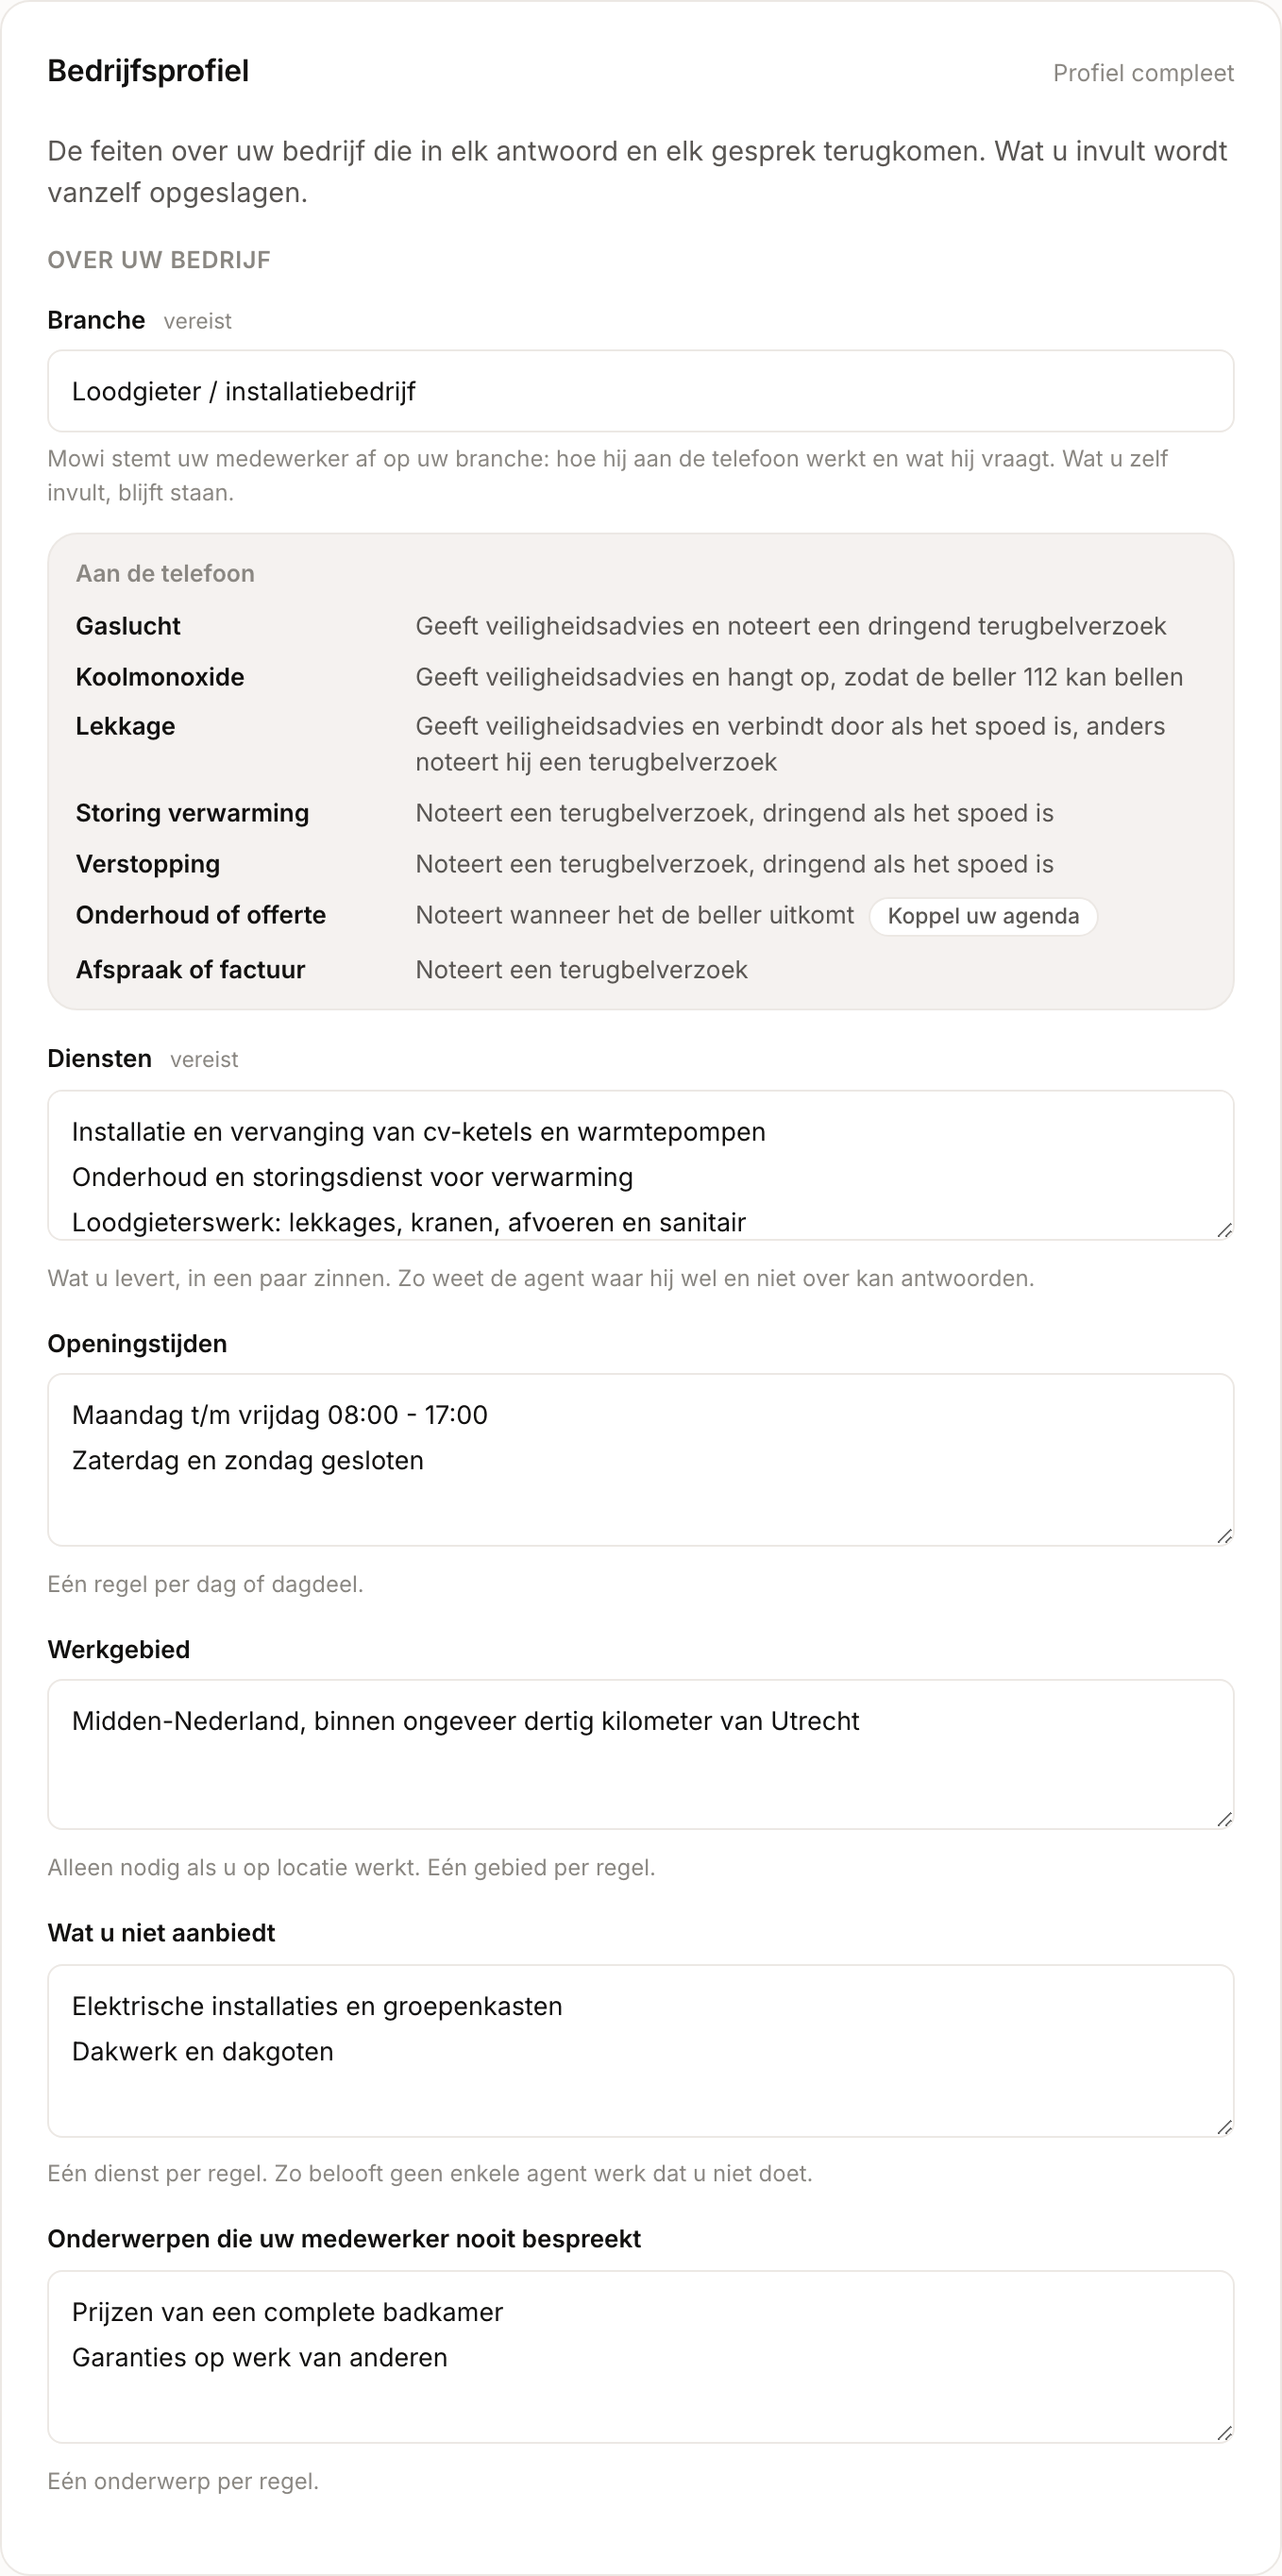
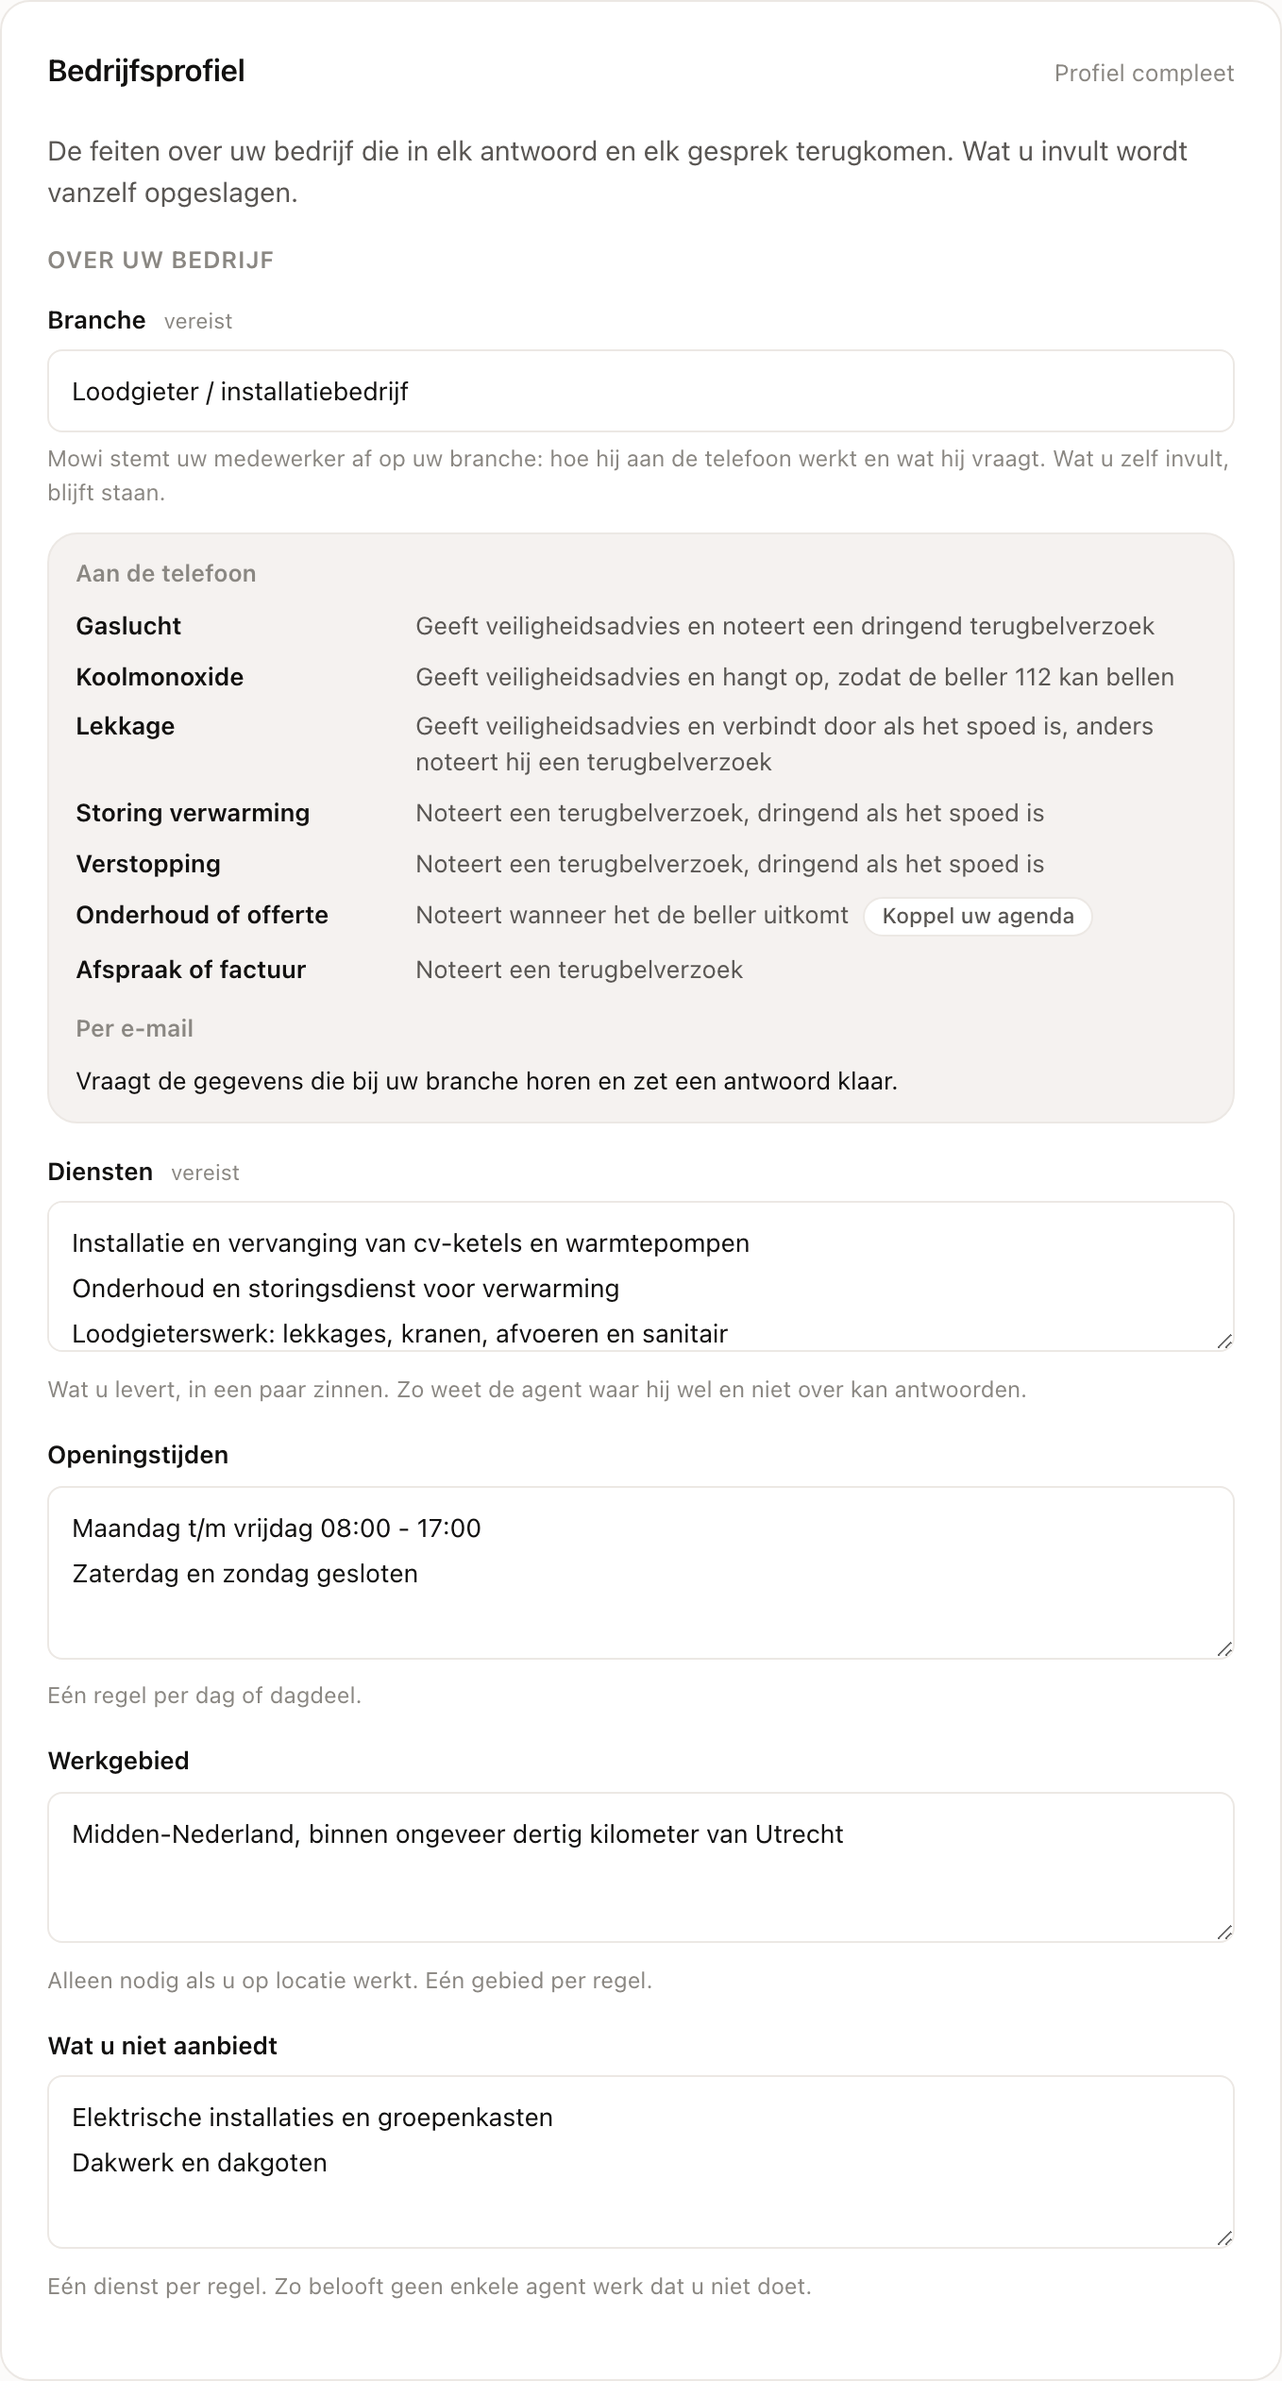
Docs: re-shot Bedrijfsprofiel card without Nooit bespreken
The field moved to the Werkwijze step (dashboard dbc5314, 9180523). Same
fictional business and crop as the 2026-10-21 shot (679 CSS px, 2x,
lossless WebP), rendered from dashboard 9180523; the route preview now
also shows its Per e-mail line. ?v=20261023.

diff --git a/docs/kennis-bedrijfsprofiel.html b/docs/kennis-bedrijfsprofiel.html
@@ -99,7 +99,7 @@
 </p>
 
 <div class="docs-media docs-media--shot">
-<a href="../assets/docs/kennis-bedrijfsprofiel-2-profiel.webp?v=20261021b" target="_blank" rel="noopener"><img src="../assets/docs/kennis-bedrijfsprofiel-2-profiel.webp?v=20261021b" alt="De kaart Bedrijfsprofiel met Branche en wat de agent per soort gesprek doet, Diensten, Openingstijden, Werkgebied, Wat u niet aanbiedt en de onderwerpen die uw medewerker nooit bespreekt" width="679" height="1364" loading="lazy" /></a>
+<a href="../assets/docs/kennis-bedrijfsprofiel-2-profiel.webp?v=20261023" target="_blank" rel="noopener"><img src="../assets/docs/kennis-bedrijfsprofiel-2-profiel.webp?v=20261023" alt="De kaart Bedrijfsprofiel met Branche en wat de agent per soort gesprek aan de telefoon en per e-mail doet, Diensten, Openingstijden, Werkgebied en Wat u niet aanbiedt" width="679" height="1261" loading="lazy" /></a>
 </div>
 <p class="docs-media-caption">Het bedrijfsprofiel. <strong>Branche</strong> en <strong>Diensten</strong> zijn vereist.</p>
 
